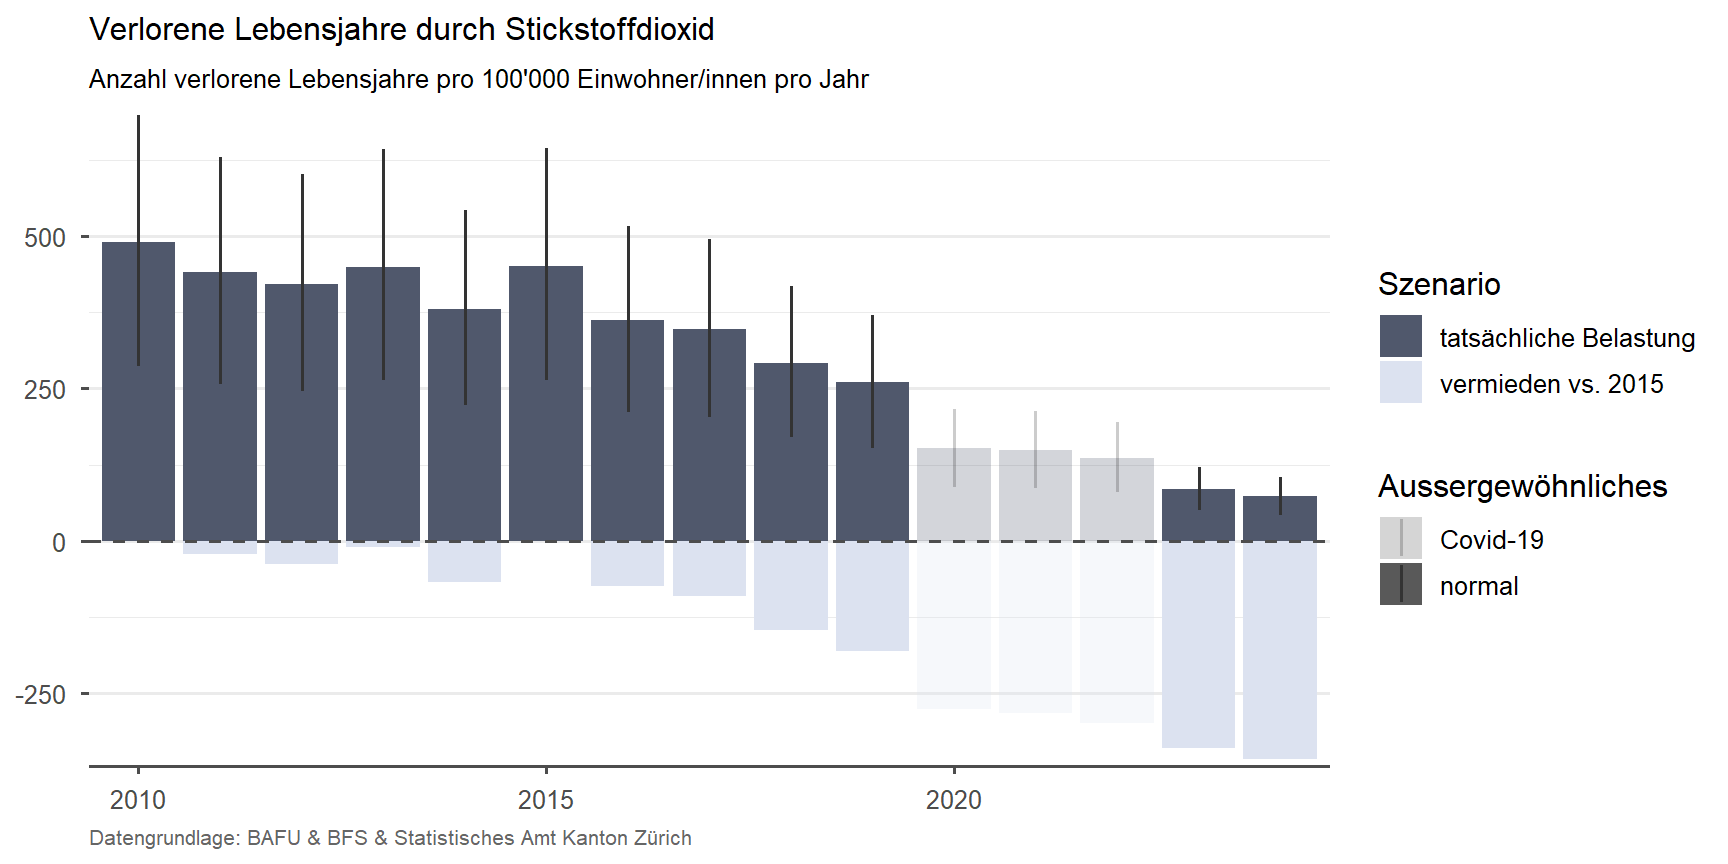
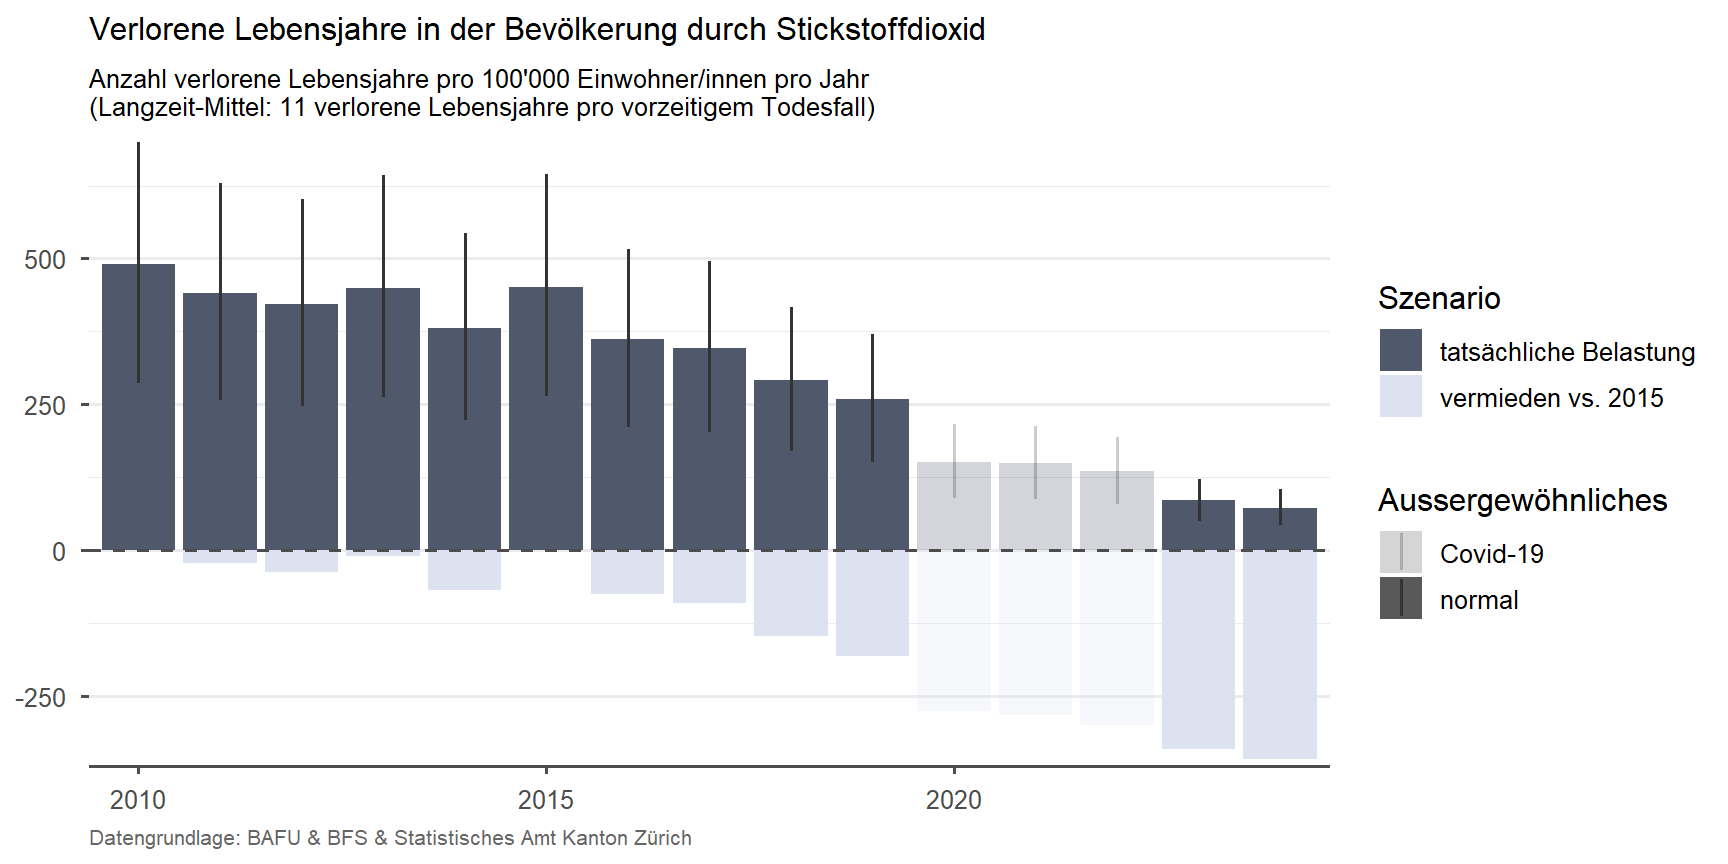
Render the website

diff --git a/docs/Gesundheitsfolgen.html b/docs/Gesundheitsfolgen.html
@@ -336,7 +336,6 @@ ul.task-list li input[type="checkbox"] {
 </header>
 
 
-<p>! WORK-IN-PROGRESS !</p>
 <p>Hier werden die Gesundheitsauswirkungen in der Wohnbevölkerung im Kanton Zürich durch Langzeitbelastung ausgewählter Luftschadstoffe statistisch abgeschätzt. Die Abschätzung behandelt vorzeitige Todesfälle und verlorene Lebensjahre als Fallbeispiele für ausgewählte Gesundheitsfolgen. Der Nutzen der Verminderung von Luftverschutzung für die Bevölkerung kann auch als vermiedene Gesundheitsfolgen ausgedrückt werden (vergleiche z.B. <a href="https://www.swisstph.ch/fileadmin/user_upload/SwissTPH/Institute/Ludok/Aktuelle_Berichte/SwissTPH2023_Gesundheitsnutzen_AQG_WHO_2021.pdf">Projekt GeLuft</a>).</p>
 <div class="callout callout-style-default callout-note callout-titled">
 <div class="callout-header d-flex align-content-center collapsed" data-bs-toggle="collapse" data-bs-target=".callout-1-contents" aria-controls="callout-1" aria-expanded="false" aria-label="Toggle callout">
@@ -384,7 +383,7 @@ ul.task-list li input[type="checkbox"] {
 <div class="callout-body-container callout-body">
 <p>In der vorliegenden Berechnung richten wir uns nach dem etablierten epidemiologischen Vorgehen (vergleiche z.B. <a href="https://edoc.unibas.ch/96059/">Castro et al., 2023</a>). Die Ergebnisse sind somit methodisch grundsätzlich vergleichbar mit anderen Studien in der Schweiz und international (methodische Abweichungen ergeben sich im Detail, so sind z.B. aufgrund unterschiedlicher verwendeter Grundlagen die Ergebnisse hier nicht 1:1 konsistent mit denen des <a href="https://www.are.admin.ch/are/de/home.html">Bundesamtes für Raumentwicklung ARE</a> in Bezug auf die <a href="https://www.are.admin.ch/are/de/home/mobilitaet/grundlagen-und-daten/kosten-und-nutzen-des-verkehrs.html">Auswirkungen durch den Verkehr</a>). Wir nutzen Dosis-Wirkungsbeziehungen und Schwellenwerte, die dem aktuellen Stand der Wissenschaft entsprechen und möglichst repräsentativ für die Schweizer Bevölkerung sind. Dafür richten wir uns nach den Empfehlungen von Expert/innen der Schweizer <a href="https://www.swisstph.ch/de/projects/ludok">Dokumentationsstelle Luftverschmutzung und Gesundheit (LUDOK)</a>.</p>
 <p>In den Grafiken wird der wissenschaftlich und statistisch am sichersten abgestützte Wert als Balken dargestellt. Die Unsicherheitsbereiche (vertikale Linien) zeigen die statistische Unsicherheit der verwendeten Dosis-Wirkungsbeziehungen (95% Vertrauensbereich). Gemäss dem aktuellen <a href="https://www.who.int/publications/i/item/9789240034228">wissenschaftlichen Synthesebericht der Weltgesundheitsorganisation</a> sind auch unterhalb der WHO-Richtwerte Gesundheitsauswirkungen durch Luftverschmutzung wahrscheinlich. Diese sind hier nicht eingerechnet; die Ergebnisse sind in dieser Hinsicht eher als untere Grenze zu verstehen.</p>
-<p>Die vorzeitigen Todesfälle beziehen sich auf die krankheitsbedingten Todesfälle der Wohnbevölkerung ab 30 Jahren. Die verlorenen Lebensjahre werden mit einer Sterbetafel nach Alter und Geschlecht berechnet (Methode wie im Instrument AirQ+ der Weltgesundheitsorganisation, umgesetzt mit dem R-Paket <a href="https://swisstph.github.io/healthiar/">healthiar</a>): Sie geben an, wie viele Lebensjahre die Wohnbevölkerung ab 30 Jahren durch die Luftbelastung eines Jahres über ihre verbleibende Lebenszeit insgesamt verliert. Das Verhältnis der verlorenen Lebensjahre zu den vorzeitigen Todesfällen desselben Jahres gibt einen Anhaltspunkt, wie viele Lebensjahre ein vorzeitiger Todesfall im Mittel kostet.</p>
+<p>Die vorzeitigen Todesfälle beziehen sich auf die krankheitsbedingten Todesfälle der Wohnbevölkerung ab 30 Jahren. Die verlorenen Lebensjahre werden mit einer Sterbetafel nach Alter und Geschlecht berechnet (Methode wie im Instrument AirQ+ der Weltgesundheitsorganisation, umgesetzt mit dem R-Paket <a href="https://swisstph.github.io/healthiar/">healthiar</a>): Sie geben an, wie viele Lebensjahre die Wohnbevölkerung ab 30 Jahren durch die Luftbelastung eines Jahres über ihre verbleibende Lebenszeit insgesamt verliert. Das Verhältnis der verlorenen Lebensjahre zu den vorzeitigen Todesfällen desselben Jahres gibt einen Anhaltspunkt, wie viele Lebensjahre ein vorzeitiger Todesfall im Mittel kostet; sein Mittel über alle Jahre steht im Untertitel der Grafiken zu den verlorenen Lebensjahren.</p>
 <p>Vor allem in den Jahren 2020 bis 2022 hat die Schweiz eine <a href="https://www.bfs.admin.ch/bfs/de/home/statistiken/gesundheit/gesundheitszustand/sterblichkeit-todesursachen.html">Übersterblichkeit durch die Covid-19 Pandemie</a> erlebt. Da jährliche Daten zu Todesfällen eine Grundlage der Gesundheitsfolgenabschätzung durch Luftbelastung sind, werden die Ergebnisse dieser Jahre geringfügig überschätzt. Die entsprechenden Jahre sind in den Abbildungen gekennzeichnet.</p>
 <p>Betrachtet man die Veränderung der Gesundheitswirkungen durch Luftbelastung über mehrere Jahre, so wird diese einerseits durch die Entwicklung der Luftqualität und andererseits durch die Veränderung der Anzahl und räumlichen Verteilung der Wohnbevölkerung beeinflusst.</p>
 </div>
@@ -409,16 +408,13 @@ ul.task-list li input[type="checkbox"] {
 <section id="verlorene-lebensjahre" class="level4">
 <h4 class="anchored" data-anchor-id="verlorene-lebensjahre">verlorene Lebensjahre</h4>
 <div class="tabset-margin-container"></div><div class="panel-tabset">
-<ul class="nav nav-tabs" role="tablist"><li class="nav-item" role="presentation"><a class="nav-link active" id="tabset-2-1-tab" data-bs-toggle="tab" data-bs-target="#tabset-2-1" role="tab" aria-controls="tabset-2-1" aria-selected="true" href="">absolut</a></li><li class="nav-item" role="presentation"><a class="nav-link" id="tabset-2-2-tab" data-bs-toggle="tab" data-bs-target="#tabset-2-2" role="tab" aria-controls="tabset-2-2" aria-selected="false" href="">relativ</a></li><li class="nav-item" role="presentation"><a class="nav-link" id="tabset-2-3-tab" data-bs-toggle="tab" data-bs-target="#tabset-2-3" role="tab" aria-controls="tabset-2-3" aria-selected="false" href="">pro Todesfall</a></li></ul>
+<ul class="nav nav-tabs" role="tablist"><li class="nav-item" role="presentation"><a class="nav-link active" id="tabset-2-1-tab" data-bs-toggle="tab" data-bs-target="#tabset-2-1" role="tab" aria-controls="tabset-2-1" aria-selected="true" href="">absolut</a></li><li class="nav-item" role="presentation"><a class="nav-link" id="tabset-2-2-tab" data-bs-toggle="tab" data-bs-target="#tabset-2-2" role="tab" aria-controls="tabset-2-2" aria-selected="false" href="">relativ</a></li></ul>
 <div class="tab-content">
 <div id="tabset-2-1" class="tab-pane active" role="tabpanel" aria-labelledby="tabset-2-1-tab">
 <p><a href="Gesundheitsfolgen_files/figure-html/tabs-pm2-5-life-years-lost-1.png" class="lightbox" data-gallery="quarto-lightbox-gallery-3"><img src="Gesundheitsfolgen_files/figure-html/tabs-pm2-5-life-years-lost-1.png" class="img-fluid" width="864"></a></p>
 </div>
 <div id="tabset-2-2" class="tab-pane" role="tabpanel" aria-labelledby="tabset-2-2-tab">
 <p><a href="Gesundheitsfolgen_files/figure-html/tabs-pm2-5-life-years-lost-2.png" class="lightbox" data-gallery="quarto-lightbox-gallery-4"><img src="Gesundheitsfolgen_files/figure-html/tabs-pm2-5-life-years-lost-2.png" class="img-fluid" width="864"></a></p>
-</div>
-<div id="tabset-2-3" class="tab-pane" role="tabpanel" aria-labelledby="tabset-2-3-tab">
-<p><a href="Gesundheitsfolgen_files/figure-html/tabs-pm2-5-life-years-lost-3.png" class="lightbox" data-gallery="quarto-lightbox-gallery-5"><img src="Gesundheitsfolgen_files/figure-html/tabs-pm2-5-life-years-lost-3.png" class="img-fluid" width="864"></a></p>
 </div>
 </div>
 </div>
@@ -432,10 +428,10 @@ ul.task-list li input[type="checkbox"] {
 <ul class="nav nav-tabs" role="tablist"><li class="nav-item" role="presentation"><a class="nav-link active" id="tabset-3-1-tab" data-bs-toggle="tab" data-bs-target="#tabset-3-1" role="tab" aria-controls="tabset-3-1" aria-selected="true" href="">absolut</a></li><li class="nav-item" role="presentation"><a class="nav-link" id="tabset-3-2-tab" data-bs-toggle="tab" data-bs-target="#tabset-3-2" role="tab" aria-controls="tabset-3-2" aria-selected="false" href="">relativ</a></li></ul>
 <div class="tab-content">
 <div id="tabset-3-1" class="tab-pane active" role="tabpanel" aria-labelledby="tabset-3-1-tab">
-<p><a href="Gesundheitsfolgen_files/figure-html/tabs-no2-preliminary-deaths-1.png" class="lightbox" data-gallery="quarto-lightbox-gallery-6"><img src="Gesundheitsfolgen_files/figure-html/tabs-no2-preliminary-deaths-1.png" class="img-fluid" width="864"></a></p>
+<p><a href="Gesundheitsfolgen_files/figure-html/tabs-no2-preliminary-deaths-1.png" class="lightbox" data-gallery="quarto-lightbox-gallery-5"><img src="Gesundheitsfolgen_files/figure-html/tabs-no2-preliminary-deaths-1.png" class="img-fluid" width="864"></a></p>
 </div>
 <div id="tabset-3-2" class="tab-pane" role="tabpanel" aria-labelledby="tabset-3-2-tab">
-<p><a href="Gesundheitsfolgen_files/figure-html/tabs-no2-preliminary-deaths-2.png" class="lightbox" data-gallery="quarto-lightbox-gallery-7"><img src="Gesundheitsfolgen_files/figure-html/tabs-no2-preliminary-deaths-2.png" class="img-fluid" width="864"></a></p>
+<p><a href="Gesundheitsfolgen_files/figure-html/tabs-no2-preliminary-deaths-2.png" class="lightbox" data-gallery="quarto-lightbox-gallery-6"><img src="Gesundheitsfolgen_files/figure-html/tabs-no2-preliminary-deaths-2.png" class="img-fluid" width="864"></a></p>
 </div>
 </div>
 </div>
@@ -443,16 +439,13 @@ ul.task-list li input[type="checkbox"] {
 <section id="verlorene-lebensjahre-1" class="level4">
 <h4 class="anchored" data-anchor-id="verlorene-lebensjahre-1">verlorene Lebensjahre</h4>
 <div class="tabset-margin-container"></div><div class="panel-tabset">
-<ul class="nav nav-tabs" role="tablist"><li class="nav-item" role="presentation"><a class="nav-link active" id="tabset-4-1-tab" data-bs-toggle="tab" data-bs-target="#tabset-4-1" role="tab" aria-controls="tabset-4-1" aria-selected="true" href="">absolut</a></li><li class="nav-item" role="presentation"><a class="nav-link" id="tabset-4-2-tab" data-bs-toggle="tab" data-bs-target="#tabset-4-2" role="tab" aria-controls="tabset-4-2" aria-selected="false" href="">relativ</a></li><li class="nav-item" role="presentation"><a class="nav-link" id="tabset-4-3-tab" data-bs-toggle="tab" data-bs-target="#tabset-4-3" role="tab" aria-controls="tabset-4-3" aria-selected="false" href="">pro Todesfall</a></li></ul>
+<ul class="nav nav-tabs" role="tablist"><li class="nav-item" role="presentation"><a class="nav-link active" id="tabset-4-1-tab" data-bs-toggle="tab" data-bs-target="#tabset-4-1" role="tab" aria-controls="tabset-4-1" aria-selected="true" href="">absolut</a></li><li class="nav-item" role="presentation"><a class="nav-link" id="tabset-4-2-tab" data-bs-toggle="tab" data-bs-target="#tabset-4-2" role="tab" aria-controls="tabset-4-2" aria-selected="false" href="">relativ</a></li></ul>
 <div class="tab-content">
 <div id="tabset-4-1" class="tab-pane active" role="tabpanel" aria-labelledby="tabset-4-1-tab">
-<p><a href="Gesundheitsfolgen_files/figure-html/tabs-no2-life-years-lost-1.png" class="lightbox" data-gallery="quarto-lightbox-gallery-8"><img src="Gesundheitsfolgen_files/figure-html/tabs-no2-life-years-lost-1.png" class="img-fluid" width="864"></a></p>
+<p><a href="Gesundheitsfolgen_files/figure-html/tabs-no2-life-years-lost-1.png" class="lightbox" data-gallery="quarto-lightbox-gallery-7"><img src="Gesundheitsfolgen_files/figure-html/tabs-no2-life-years-lost-1.png" class="img-fluid" width="864"></a></p>
 </div>
 <div id="tabset-4-2" class="tab-pane" role="tabpanel" aria-labelledby="tabset-4-2-tab">
-<p><a href="Gesundheitsfolgen_files/figure-html/tabs-no2-life-years-lost-2.png" class="lightbox" data-gallery="quarto-lightbox-gallery-9"><img src="Gesundheitsfolgen_files/figure-html/tabs-no2-life-years-lost-2.png" class="img-fluid" width="864"></a></p>
-</div>
-<div id="tabset-4-3" class="tab-pane" role="tabpanel" aria-labelledby="tabset-4-3-tab">
-<p><a href="Gesundheitsfolgen_files/figure-html/tabs-no2-life-years-lost-3.png" class="lightbox" data-gallery="quarto-lightbox-gallery-10"><img src="Gesundheitsfolgen_files/figure-html/tabs-no2-life-years-lost-3.png" class="img-fluid" width="864"></a></p>
+<p><a href="Gesundheitsfolgen_files/figure-html/tabs-no2-life-years-lost-2.png" class="lightbox" data-gallery="quarto-lightbox-gallery-8"><img src="Gesundheitsfolgen_files/figure-html/tabs-no2-life-years-lost-2.png" class="img-fluid" width="864"></a></p>
 </div>
 </div>
 </div>
@@ -466,10 +459,10 @@ ul.task-list li input[type="checkbox"] {
 <ul class="nav nav-tabs" role="tablist"><li class="nav-item" role="presentation"><a class="nav-link active" id="tabset-5-1-tab" data-bs-toggle="tab" data-bs-target="#tabset-5-1" role="tab" aria-controls="tabset-5-1" aria-selected="true" href="">absolut</a></li><li class="nav-item" role="presentation"><a class="nav-link" id="tabset-5-2-tab" data-bs-toggle="tab" data-bs-target="#tabset-5-2" role="tab" aria-controls="tabset-5-2" aria-selected="false" href="">relativ</a></li></ul>
 <div class="tab-content">
 <div id="tabset-5-1" class="tab-pane active" role="tabpanel" aria-labelledby="tabset-5-1-tab">
-<p><a href="Gesundheitsfolgen_files/figure-html/tabs-o3-peakseason-mean-d1-max-mean-h8gl-preliminary-deaths-1.png" class="lightbox" data-gallery="quarto-lightbox-gallery-11"><img src="Gesundheitsfolgen_files/figure-html/tabs-o3-peakseason-mean-d1-max-mean-h8gl-preliminary-deaths-1.png" class="img-fluid" width="864"></a></p>
+<p><a href="Gesundheitsfolgen_files/figure-html/tabs-o3-peakseason-mean-d1-max-mean-h8gl-preliminary-deaths-1.png" class="lightbox" data-gallery="quarto-lightbox-gallery-9"><img src="Gesundheitsfolgen_files/figure-html/tabs-o3-peakseason-mean-d1-max-mean-h8gl-preliminary-deaths-1.png" class="img-fluid" width="864"></a></p>
 </div>
 <div id="tabset-5-2" class="tab-pane" role="tabpanel" aria-labelledby="tabset-5-2-tab">
-<p><a href="Gesundheitsfolgen_files/figure-html/tabs-o3-peakseason-mean-d1-max-mean-h8gl-preliminary-deaths-2.png" class="lightbox" data-gallery="quarto-lightbox-gallery-12"><img src="Gesundheitsfolgen_files/figure-html/tabs-o3-peakseason-mean-d1-max-mean-h8gl-preliminary-deaths-2.png" class="img-fluid" width="864"></a></p>
+<p><a href="Gesundheitsfolgen_files/figure-html/tabs-o3-peakseason-mean-d1-max-mean-h8gl-preliminary-deaths-2.png" class="lightbox" data-gallery="quarto-lightbox-gallery-10"><img src="Gesundheitsfolgen_files/figure-html/tabs-o3-peakseason-mean-d1-max-mean-h8gl-preliminary-deaths-2.png" class="img-fluid" width="864"></a></p>
 </div>
 </div>
 </div>
@@ -477,16 +470,13 @@ ul.task-list li input[type="checkbox"] {
 <section id="verlorene-lebensjahre-2" class="level4">
 <h4 class="anchored" data-anchor-id="verlorene-lebensjahre-2">verlorene Lebensjahre</h4>
 <div class="tabset-margin-container"></div><div class="panel-tabset">
-<ul class="nav nav-tabs" role="tablist"><li class="nav-item" role="presentation"><a class="nav-link active" id="tabset-6-1-tab" data-bs-toggle="tab" data-bs-target="#tabset-6-1" role="tab" aria-controls="tabset-6-1" aria-selected="true" href="">absolut</a></li><li class="nav-item" role="presentation"><a class="nav-link" id="tabset-6-2-tab" data-bs-toggle="tab" data-bs-target="#tabset-6-2" role="tab" aria-controls="tabset-6-2" aria-selected="false" href="">relativ</a></li><li class="nav-item" role="presentation"><a class="nav-link" id="tabset-6-3-tab" data-bs-toggle="tab" data-bs-target="#tabset-6-3" role="tab" aria-controls="tabset-6-3" aria-selected="false" href="">pro Todesfall</a></li></ul>
+<ul class="nav nav-tabs" role="tablist"><li class="nav-item" role="presentation"><a class="nav-link active" id="tabset-6-1-tab" data-bs-toggle="tab" data-bs-target="#tabset-6-1" role="tab" aria-controls="tabset-6-1" aria-selected="true" href="">absolut</a></li><li class="nav-item" role="presentation"><a class="nav-link" id="tabset-6-2-tab" data-bs-toggle="tab" data-bs-target="#tabset-6-2" role="tab" aria-controls="tabset-6-2" aria-selected="false" href="">relativ</a></li></ul>
 <div class="tab-content">
 <div id="tabset-6-1" class="tab-pane active" role="tabpanel" aria-labelledby="tabset-6-1-tab">
-<p><a href="Gesundheitsfolgen_files/figure-html/tabs-o3-peakseason-mean-d1-max-mean-h8gl-life-years-lost-1.png" class="lightbox" data-gallery="quarto-lightbox-gallery-13"><img src="Gesundheitsfolgen_files/figure-html/tabs-o3-peakseason-mean-d1-max-mean-h8gl-life-years-lost-1.png" class="img-fluid" width="864"></a></p>
+<p><a href="Gesundheitsfolgen_files/figure-html/tabs-o3-peakseason-mean-d1-max-mean-h8gl-life-years-lost-1.png" class="lightbox" data-gallery="quarto-lightbox-gallery-11"><img src="Gesundheitsfolgen_files/figure-html/tabs-o3-peakseason-mean-d1-max-mean-h8gl-life-years-lost-1.png" class="img-fluid" width="864"></a></p>
 </div>
 <div id="tabset-6-2" class="tab-pane" role="tabpanel" aria-labelledby="tabset-6-2-tab">
-<p><a href="Gesundheitsfolgen_files/figure-html/tabs-o3-peakseason-mean-d1-max-mean-h8gl-life-years-lost-2.png" class="lightbox" data-gallery="quarto-lightbox-gallery-14"><img src="Gesundheitsfolgen_files/figure-html/tabs-o3-peakseason-mean-d1-max-mean-h8gl-life-years-lost-2.png" class="img-fluid" width="864"></a></p>
-</div>
-<div id="tabset-6-3" class="tab-pane" role="tabpanel" aria-labelledby="tabset-6-3-tab">
-<p><a href="Gesundheitsfolgen_files/figure-html/tabs-o3-peakseason-mean-d1-max-mean-h8gl-life-years-lost-3.png" class="lightbox" data-gallery="quarto-lightbox-gallery-15"><img src="Gesundheitsfolgen_files/figure-html/tabs-o3-peakseason-mean-d1-max-mean-h8gl-life-years-lost-3.png" class="img-fluid" width="864"></a></p>
+<p><a href="Gesundheitsfolgen_files/figure-html/tabs-o3-peakseason-mean-d1-max-mean-h8gl-life-years-lost-2.png" class="lightbox" data-gallery="quarto-lightbox-gallery-12"><img src="Gesundheitsfolgen_files/figure-html/tabs-o3-peakseason-mean-d1-max-mean-h8gl-life-years-lost-2.png" class="img-fluid" width="864"></a></p>
 </div>
 </div>
 </div>
